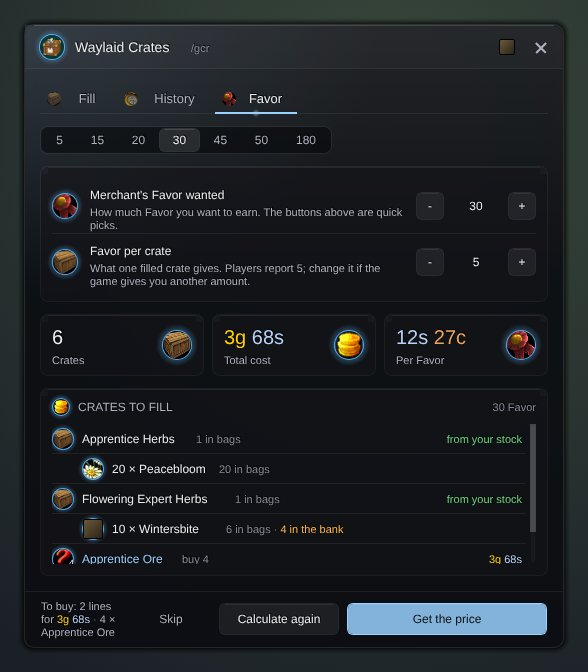
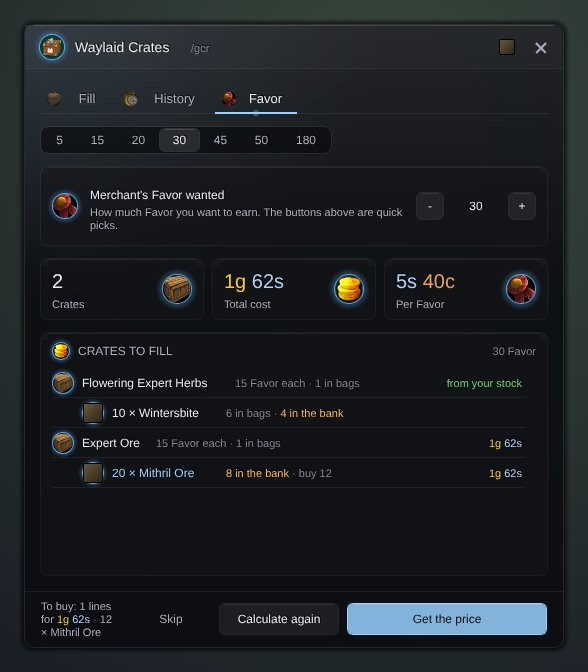
Crates: Favor per crate from the game data, cheapest mix for the goal
Claude-Session: https://claude.ai/code/session_01HDZ3VZ77jpYg37wLmziVAa

diff --git a/AGENTS.md b/AGENTS.md
@@ -89,7 +89,7 @@ Each one loads `Locales.lua`, `Core.lua`, `Skin.lua`, `UI.lua` (DungeonPrep adds
 - **Gulli-Reminders** (`/grm`, `/grm unlock|lock|reset`, `/grm item <link>`, `/grm spell <id>`; `GulliRemindersDB`: `show`, `inRest`, `track` buff key -> on/off, `weapon`, `pet`, `lockPet`, `ammo`, `shards`, `ammoMin`, `shardsMin`, `soonMin`, `anyWeapon`, `food`, `foodItem`, `where` and `whereItems` (`ns.PLACES`), `alert` (`ns.ALERTS`), `durability`, `durMin`, `bags`, `bagsMin`, `others`, `custom` (`{ id, kind = buff|count, min }` or `{ spell }`), `locked`, `size`, `alpha`, `labels`, `vertical`, `point`; defaults in `ns.DEFAULTS`, each change through `ns.SetPref`). Consumables (food, elixirs, flasks, oils) live here, not in GroupBuffs. Each icon is a `SecureActionButtonTemplate` button: a missing entry carries `act` (`type` spell, item or macro) that the left click does, set only out of combat; `buy` and `want` make a count icon buy at an open vendor (`ns.Buy`). A new kind of reminder gets its entry in `ns.Missing` (with `act` when a click can fix it), its texts in every language and a test; a new item list (`ns.FOOD`, `ns.POISONS`, `ns.WEAPON_ITEMS`) is best first. `ns.Missing` checks out of combat, alive and off a flight, and returns why it waits as a second value; a buff with less than `soonMin` minutes left counts as missing. `ns.BUFFS` lists each class's long buffs as `{ key, ids, on }` with rank-1 spell ids (any name in the group counts; `on = false` starts unwatched); a new buff gets an entry, a `BUFF_<KEY>` name in every language and a test. A racial buff carries `race` (the second value of `UnitRace`, such as `Scourge`) and is listed only for that race or when known. The window lists only the player's class (`ns.ClassBuffs`, `ns.Extras`). The panel (`GulliRemindersPanel`) shows `ns.Sample()` while it is unlocked, so the player can place it.
 - **Gulli-CraftProfit** (`/gcp`, `/gcp probe`, `/gcp gather <link>`; `GulliCraftProfitDB`: `prefs`, `vendor` item id -> price seen at a vendor, `trainer` recipe name -> cost, `gather` item id -> true (gathered, never bought), `lots` item id -> `{ t, l = { { unit price, count } } }` read at the auction; `GulliCraftProfitCharDB.profs` by profession name: `skill`, `cap`, `icon`, `recipes` with reagents, output, `learned` and `obs` skill -> colour; `current`, `mail` item id -> count in the mailbox, `run` the run started, `log` the last 10 runs). Loads `Locales.lua`, `Data.lua`, `Core.lua`, `Scan.lua`, `Skin.lua`, `UI.lua`. `Core.lua` is pure rules on a plain `state` table (no game calls), so the tests run it without a game: `ns.SellValue` (auction cut 5% or 15% neutral, the share that sells, the deposit lost on the rest, `maxSell` units of one item before the rest goes to a vendor; 0 is no limit, `ns.Limit`, and its stepper and `maxBuy`'s end in **no limit**, `UNLIMITED` in `UI.lua`), `ns.BuyOption`, `ns.Chance`/`ns.Color` (orange always, then (grey - skill) / (grey - yellow)), `ns.Estimate` (thresholds from the colours seen), `ns.Cap` (a cap the game did not give is the rank the skill is in), `ns.Plan` (per skill point the lowest expected cost plus time weight `P.w` and a small switch cost; own items count at what they would sell for; bought recipes are dropped while that improves the plan), `ns.Frontier` (plans for each weight of `ns.SWEEP`, kept when 2% faster than every cheaper one, at most `ns.LEVEL_ROUTES`), `ns.NextRun` (a route is one run: the first recipe of the whole way, planned again to there with only that recipe, `P.only`, with the whole way in `full`; the window plans again when the skill or the prices change), `ns.Legs` (the whole way as runs one after another, each from what the run before left (`after`), the same recipe twice in a row as one run, `unknown` up to the next orange skill where no known recipe raises the skill, at most `ns.MAX_LEGS`; the chips over the graph, `ns.SelectLeg`, `ns.LegRoute`), `ns.Earn` (a profit run without levelling: the one recipe whose series gains the most, crafted while a craft still gains, at most `ns.EARN_MAX` crafts with the intermediates and `maxBuy` of one item bought at the auction (`P.ahBought` in `ns.BuyOption`); `own` only from the bags and bank plus vendor reagents, else also auction buys and a bought pattern), `ns.Variants` (every route of `ns.MODES` for the tabs: the levelling ones `l1`..`l4` only while `level` is on and there is skill left; `over` when the whole way loses more than `budget`, `best` the fastest within it, which mode `auto` follows), `ns.Route` (stops: bank, auction, vendor, intermediates, crafts split by trainer visits, selling) and `ns.Changed`. A new route goes into `ns.MODES` (and `ns.EARN` when it does not level) with `VAR_`/`TILE_` texts and a test; a saved mode that is renamed gets an entry in `ns.OLD_MODES`. `Scan.lua` holds every game read: the profession window (`C_TradeSkillUI`, the classic `GetTradeSkillInfo` as fallback; a skill of 0 is read from the spellbook, and a profession at 0/0 is never saved), item counts with the bank, Auctionator `API.v1`, and prices seen at vendors and trainers. `UI.lua` shows the route as a graph of stops with game icons (`ns.STOP_ICONS`), `SHOWN_ROWS` rows high with **All stops** for the rest, and the settings column (cards of switch rows and `S.Stepper` rows, icons from `ns.OPT_ICON`, the main switches also in the hub's `options`); each setting goes through `ns.SetPref`, which rebuilds the plan and lights the changed stops. A new setting gets a default in `ns.DEFAULTS`, a control in the column, its texts in every language and a test that clicking it rebuilds the route; a new kind of stop gets a colour in `ns.STOPS`, an icon in `ns.STOP_ICONS`, its texts and a test. The client does not give recipe thresholds: `Data.lua` (generated by `tools/craftprofit/build_data.py` from Skillet-Classic's `SkillLevelData1.lua`, never edited by hand) has yellow, green and grey by recipe spell (`spell`, the modern API's recipe id) and orange to grey by made item (`item`, the classic API's key). `src` (from the QuestieDB Forever item and NPC data, the generator's second argument) has where a pattern comes from by recipe spell: `v` with its vendors and their factions, `q`, `d`; `Scan.lua` (`recipeSource`) turns it into the recipe's `src` (vendor at four times the pattern's sell price until the vendor is seen, the auction when cheaper, a recipe without a pattern from the trainer). `gone` lists the recipes the client has but WoW Forever does not give (Season of Discovery recipes unless a Forever pattern teaches them, patterns with no Forever source); `ns.State` leaves them out until the character knows one. The Season of Discovery patterns (`SOD_ITEMS` in the generator) are never a source, since the Forever data still names their old vendors. A change to these rules gets a case in the Data.lua test. `ns.Thresholds` moves them where the game showed another colour (the game wins) and takes `maxTrivialLevel` as grey; a recipe without data is guessed from the colours (`ns.Estimate`, `ns.GAP` from yellow to grey) and marked `guess`. A change to the threshold rules gets a case in the thresholds test. The list tabs sort by a click on a column head (`LISTS` in `UI.lua`: a new column gets its width and a sort key in the row's `keys`). Own stock comes in pools taken in order (`ns.Stock`, `take`): bags, bank, mail (`useMail`), other characters (`useAlts`, read from `GulliChoresDB` by `ns.AltCount`), gathered items (unlimited, worth what they sell for); each pool past the bank gets its stop (`STOP_MAIL`, `STOP_GATHER`). `ns.LadderCost` prices n units from the lots and `ns.ApplyLadder` raises the auction price of what a plan buys to the mean over the lots it needs (lots newer than `ns.LOTS_FRESH`), after which `ns.Recalc` plans once more. `ns.Shopping` is what the run buys at the auction (`ns.ExportShopping` makes the Auctionator list, `ns.ScanLots` reads the lots one search at a time), `ns.RunNeeds` what the run needs (the item tooltip line), `ns.NextCraft` the craft of a stop (`ns.Craft`, `ns.OpenRecipe` from the click). `ns.LogStart`/`ns.LogFinish` keep the run log. The window never plans on open: **Calculate** runs `ns.RecalcJob`, a coroutine that `ns.Tick` pauses when its frame slice is spent (the window's `ns.Calculate` resumes it each frame and shows `ns.progress`); after the first result the player's changes recalculate the same way (`ns.Rebuild`), and bag or price events only set `view.stale`. A route tile switches through `ns.PickMode` from `view.variants` without planning again; only the runs of a route not shown before are built by `ns.LegsJob` and kept in `view.legsBy`. The route tiles keep at least `TILE_MIN` wide and page with arrows when they do not fit. A new long loop in the planner calls `ns.Tick()` once per pass, and `build` in `Core.lua` fills a new view only when it is done, so the window keeps the last result meanwhile. A new own-stock pool gets a key in `ns.Stock`, its place in `take`, a stop in `ns.Route` with a colour and icon, its texts and a test.
 - **Gulli-Legacy** (`/glg`, `/glg game`; `GulliLegacyDB`: the switches in `ns.DEFAULTS` (`dungeon`, `raid`, `pvp`, `alts`, `newClass`, `beside`, `tracker`, `locked`, `announce`, `alpha`, `goal` 0 or a reward level, `sort` one of `ns.SORTS`), `chars` (key -> `name`, `class`, `level`, `xp`, `skills` skill line -> rank, `rate`, `avail`, `spent`), `pins` (achievement id -> true), `skillNames`, `point`). It only reads. The Legacy challenges are the achievements that give points (`C_Traits.GetTraitCurrencyForAchievement(ns.CURRENCY, id)`), found by walking every achievement category once (`ns.Scan`); nothing is hard-coded but the ids at the top of `Core.lua` (`ns.CURRENCY`, `ns.TREES`, `ns.FACTION`, `ns.CLASS_ACH`, the activity of a category in `ns.ACTIVITY`). Criteria type 5 is a level, 7 a skill (asset = skill line), 8 another achievement (its open parts count). Points: earned is the renown of the Progress Track faction, available and spent come from the Legacy trees. `ns.Ways` gives each way to finish a challenge (a character of the class or with the profession, a new character for a missing class, this character for the rest; dungeons and raids by `ns.DUNGEON_MIN`/`ns.RAID_MIN`), each with a time guess from `ns.TIME` and `ns.LevelSeconds` (the pace from `GulliXPCharDB.s` through `ns.MeasuredRate`, else `ns.DefaultRate`); `ns.Steps` keeps the best way per challenge, fastest first (`ns.Better`); `ns.GoalPlan` takes the first steps up to a reward. A new kind of challenge gets its kind in `build`, a guess in `ns.TIME`, a line in `ns.Detail`, a tag in `ns.Tag` and a test; a new helper module goes into `ns.Helper` with a `HELP_<Key>` text. The tracker is an `S.HudList` with `S.Mover`; a new point (`ACHIEVEMENT_EARNED`) is an `S.Toast` and a `Notify`. The game's Legacy window opens through `ns.OpenInGame` (never in combat); while it is open the navigator stands to its right (`beside`, `ns.HookGameWindow` hooks `LegacySystemFrame` when `Blizzard_LegacySystem` loads or at login) and goes back where it was when it closes, unless it sits in the hub. `ns.Refine` runs after each scan and fixes what the achievement data does not say: `ns.SPECIAL` by guide kind (the level a challenge needs, `group`, a fixed time; a new special case gets an entry there and a test), and for exploring the time from the dark areas (`ns.TIME.zone` + `ns.TIME.area` each) and the zones above the player's level (`ns.ZoneLevels`, read from `C_Map.GetMapLevels` by zone name). A way for a character below the level a step needs (`minLevel`, `ns.SkillLevel` for a skill rank) adds the levelling to its time (`needLevel`, `levelEta`) instead of hiding it. A click on a step or a challenge opens its detail page (`ns.ShowDetail`, the last page, not a tab): `ns.Parts` lists what is left part by part (a part that is another achievement shows its open parts; one made of achievements again is opened up, at most three levels, so Explore Azeroth lists the zones), `ns.Guide` gives the lines of what to do by `ns.GuideKind` (a new guide gets a kind there, its `G_` texts in every language and a test), and `ns.WowheadURL` the Wowhead search to copy (the game cannot open links). `ns.Challenges` sorts the Challenges tab by `sort`: progress (done first, then the most finished), type or name.
-- **Gulli-Crates** (`/gcr`, `/gcr calc`; `GulliCratesDB`: `auto`, `bank`, `goal`, `favor` (defaults in `ns.DEFAULTS`), `picked` crate id -> false when unticked, `history` (filled crates, newest first, at most `ns.HISTORY_MAX`: `at`, `crate`, `item`, `n`, `paid`, `bought`, `worth`, `who`), `lots` (character -> item -> `{ n, copper }` bought here and not used yet)). Loads `Locales.lua`, `Data.lua`, `Core.lua`, `Skin.lua`, `UI.lua`. `Data.lua` (`ns.CRATES`: crate id -> level and its bundles `{ item id, count }`, any one fills the crate) is hand-made from the WoW Forever guides named at its top; the crate's own tooltip wins (`ns.ReadBundles` reads its `- 10 Wintersbite` lines by the bundle items' names in the client's language), and a bag item the table lacks counts as a crate when every such line names a known item. A new crate goes into `ns.CRATES` with a test. `ns.Plan(picks, bundles, stock, price, useBank)` is plain Lua: bags and bank cost nothing and are used once, the rest is priced from Auctionator (`ns.AuctionPrice`), and the cheapest crate-and-bundle pair of all is settled first; `ns.ShoppingList` adds up what it buys. Buying goes through the commodity auction house (`C_AuctionHouse.StartCommoditiesPurchase`, then `ConfirmCommoditiesPurchase` inside the **Buy** click): `ns.BuyClick` asks the price or confirms, both calls are protected, so each line takes two clicks (price, then buy); never call either from an event or a timer. A client without that API gets the Auctionator shopping list (`ns.ExportList`) instead. At `AUCTION_HOUSE_SHOW` with a crate in the bags and `auto` on, the window opens beside the auction window (`ns.ShowAtAH`), unless it sits in the hub. `ns.Track` runs on every bag update: a crate that leaves the bags within `MATCH_WAIT` seconds of the items of one of its bundles is a fill, logged with what `ns.TakeLots` says the auction house got for those items (a crate that leaves alone is not logged). `ns.History(period)` filters it (`ns.PERIODS`) and adds it up for the History tab. `ns.Tidy` drops a plan with no crate left in the bags, or all bought with the auction house closed; the header's refresh button runs `ns.Recheck` (plan anew, or clear). A tick on a crate goes through `ns.TogglePick`/`ns.SetPicked`, which plans again at once while a plan is shown (not while a price or a purchase waits). `AUCTION_HOUSE_SHOW` plans anew, so what was bought on an earlier visit counts as stock; a crate the stock fills leaves the plan rows (one `ready` row instead) and waits at the top of the History through `ns.Ready` (a plan without prices over every crate in the bags, paid from `ns.PeekLots`). `ns.PriceAge` reads when Auctionator last scanned (its saved `TimeOfLast...Scan` times, else the bundle items' age in days) and `ns.StaleHours` says when that is over `ns.STALE_HOURS`: the Fill tab then shows an `S.Banner` until its cross is clicked, again on the next `AUCTION_HOUSE_SHOW`. The Favor tab plans a Merchant's Favor goal (`goal`, `favor` per crate, set through `ns.SetGoal`/`ns.SetFavor`; presets in `ns.GOALS`): `ns.TokenPlan` (plain Lua) takes `ns.CratesFor(goal, favor)` crates of `ns.TokenCrates` (the table's crates up to the player's level), the bags' crates first, then crates priced at the auction house, each step settling the cheapest crate plus bundle from the shared stock; a bought crate is the first row of its entry (`crate = true`), so `ns.ShoppingList` and the Buy button take it like any item. `ns.source` (`fill` or `tokens`) says which plan the Buy button works through (`ns.ActivePlan`); `ns.Calculate` and `ns.TokenCalculate` take it over, and `AUCTION_HOUSE_SHOW` plans the active one anew. The 5 Favor a crate is a player report, not game data: keep it a setting.
+- **Gulli-Crates** (`/gcr`, `/gcr calc`; `GulliCratesDB`: `auto`, `bank`, `goal` (defaults in `ns.DEFAULTS`), `picked` crate id -> false when unticked, `history` (filled crates, newest first, at most `ns.HISTORY_MAX`: `at`, `crate`, `item`, `n`, `paid`, `bought`, `worth`, `who`), `lots` (character -> item -> `{ n, copper }` bought here and not used yet)). Loads `Locales.lua`, `Data.lua`, `Core.lua`, `Skin.lua`, `UI.lua`. `Data.lua` (`ns.CRATES`: crate id -> level and its bundles `{ item id, count }`, any one fills the crate) is hand-made from the WoW Forever guides named at its top; the crate's own tooltip wins (`ns.ReadBundles` reads its `- 10 Wintersbite` lines by the bundle items' names in the client's language), and a bag item the table lacks counts as a crate when every such line names a known item. A new crate goes into `ns.CRATES` with a test. `ns.Plan(picks, bundles, stock, price, useBank)` is plain Lua: bags and bank cost nothing and are used once, the rest is priced from Auctionator (`ns.AuctionPrice`), and the cheapest crate-and-bundle pair of all is settled first; `ns.ShoppingList` adds up what it buys. Buying goes through the commodity auction house (`C_AuctionHouse.StartCommoditiesPurchase`, then `ConfirmCommoditiesPurchase` inside the **Buy** click): `ns.BuyClick` asks the price or confirms, both calls are protected, so each line takes two clicks (price, then buy); never call either from an event or a timer. A client without that API gets the Auctionator shopping list (`ns.ExportList`) instead. At `AUCTION_HOUSE_SHOW` with a crate in the bags and `auto` on, the window opens beside the auction window (`ns.ShowAtAH`), unless it sits in the hub. `ns.Track` runs on every bag update: a crate that leaves the bags within `MATCH_WAIT` seconds of the items of one of its bundles is a fill, logged with what `ns.TakeLots` says the auction house got for those items (a crate that leaves alone is not logged). `ns.History(period)` filters it (`ns.PERIODS`) and adds it up for the History tab. `ns.Tidy` drops a plan with no crate left in the bags, or all bought with the auction house closed; the header's refresh button runs `ns.Recheck` (plan anew, or clear). A tick on a crate goes through `ns.TogglePick`/`ns.SetPicked`, which plans again at once while a plan is shown (not while a price or a purchase waits). `AUCTION_HOUSE_SHOW` plans anew, so what was bought on an earlier visit counts as stock; a crate the stock fills leaves the plan rows (one `ready` row instead) and waits at the top of the History through `ns.Ready` (a plan without prices over every crate in the bags, paid from `ns.PeekLots`). `ns.PriceAge` reads when Auctionator last scanned (its saved `TimeOfLast...Scan` times, else the bundle items' age in days) and `ns.StaleHours` says when that is over `ns.STALE_HOURS`: the Fill tab then shows an `S.Banner` until its cross is clicked, again on the next `AUCTION_HOUSE_SHOW`. The Favor tab plans a Merchant's Favor goal (`goal`, set through `ns.SetGoal`; presets in `ns.GOALS`). `ns.FAVOR` in `Data.lua` is the Favor each crate pays (from the "A Sealed Crate" quests; `ns.FAVOR_GUESS` marks the Artisan values the data lacks; a new crate gets its Favor there), `ns.CURRENCY` the currency, read through `ns.FavorHeld`. `ns.TokenPlan` (plain Lua) prices each further copy of every crate of `ns.TokenCrates` (the table's crates up to the player's level; the bags' crates free, then the auction house, each with its cheapest bundle), picks the counts with a knapsack over the Favor in steps of 5 that reaches the goal for the least gold, then settles them on the shared stock, cheapest first; a bought crate is the first row of its entry (`crate = true`), so `ns.ShoppingList` and the Buy button take it like any item. `ns.source` (`fill` or `tokens`) says which plan the Buy button works through (`ns.ActivePlan`); `ns.Calculate` and `ns.TokenCalculate` take it over, and `AUCTION_HOUSE_SHOW` plans the active one anew. 
 - A module that acts on its own (sells, takes, rolls, accepts, declines) has a switch for each action, in its window and its saved variables, with a test that the switch stops it. Turning a whole module off is the hub's job (`ns.Switch`, through the module's `pause`).
 
 ## Task workflow

diff --git a/docs/crates/README.md b/docs/crates/README.md
@@ -29,7 +29,7 @@ A Waylaid Crate takes any one bundle from its list: 10 Wintersbite, 10 Firebloom
 - **Bought is bought.** A crate whose items are already in your bags leaves the plan and waits at the top of the History as ready to fill, with what you paid. When you come back to the auction house, the plan is made again, so nothing is offered twice.
 - **Old prices.** When Auctionator's prices are more than 4 hours old, a yellow note at the top of the window asks you to run a full scan first. Its cross closes it until your next visit to the auction house.
 - **Refresh.** The round arrow at the top looks at your bags again and calculates anew. When no crate is left, or all is bought and you left the auction house, the old plan is cleared by itself.
-- **A Favor goal.** The Favor tab asks how much Merchant's Favor you want: pick 5, 15, 20, 30, 45, 50 or 180, or set any number with **-** and **+**. **Calculate** finds the cheapest crates to reach it: the crates in your bags first, then crates from the auction house, each with its cheapest bundle. It shows how many crates, the total and the price of one Favor. **Buy** buys the crates and their bundles, two presses a line as always.
+- **A Favor goal.** The Favor tab asks how much Merchant's Favor you want: pick 5, 15, 20, 30, 45, 50 or 180, or set any number with **-** and **+**. Each crate pays its own Favor: Apprentice 5, Journeyman 10, Expert 15, Artisan 20, and crafted crates (fabrics, ingots, parts) twice as much. **Calculate** looks at every crate up to your level, in your bags and on the auction house, and finds the mix that reaches your goal for the least gold, each crate with its cheapest bundle. It shows how many crates, the total and the price of one Favor. **Buy** buys the crates and their bundles, two presses a line as always.
 - **All 30 crates.** Apprentice, Journeyman, Expert and Artisan: herbs, ore, textiles, curiosities, fabrics, ingots and parts.
 
 ## Install
@@ -66,7 +66,7 @@ Auctionator remembers the lowest price of one item. Buying 20 may take some dear
 <details>
 <summary><b>How much Favor does a crate give?</b></summary>
 
-Players report 5 Merchant's Favor for each crate they hand in, and sometimes double. The game does not tell an addon, so the Favor tab starts at 5. If you get another amount, set it under **Favor per crate**. The tab only uses crates up to your level, and only crates the auction house has a price for in Auctionator.
+Apprentice 5, Journeyman 10, Expert 15, Artisan 20; crafted crates (fabrics, ingots, parts) 10, 20, 30 and 40. These come from the game's quest data for "A Sealed Crate". The Artisan numbers are not in that data yet and follow the same steps. Sometimes a crate pays double (a Performance Bonus); the plan never counts on it. The tab only uses crates up to your level, and only crates the auction house has a price for in Auctionator.
 </details>
 
 <details>
